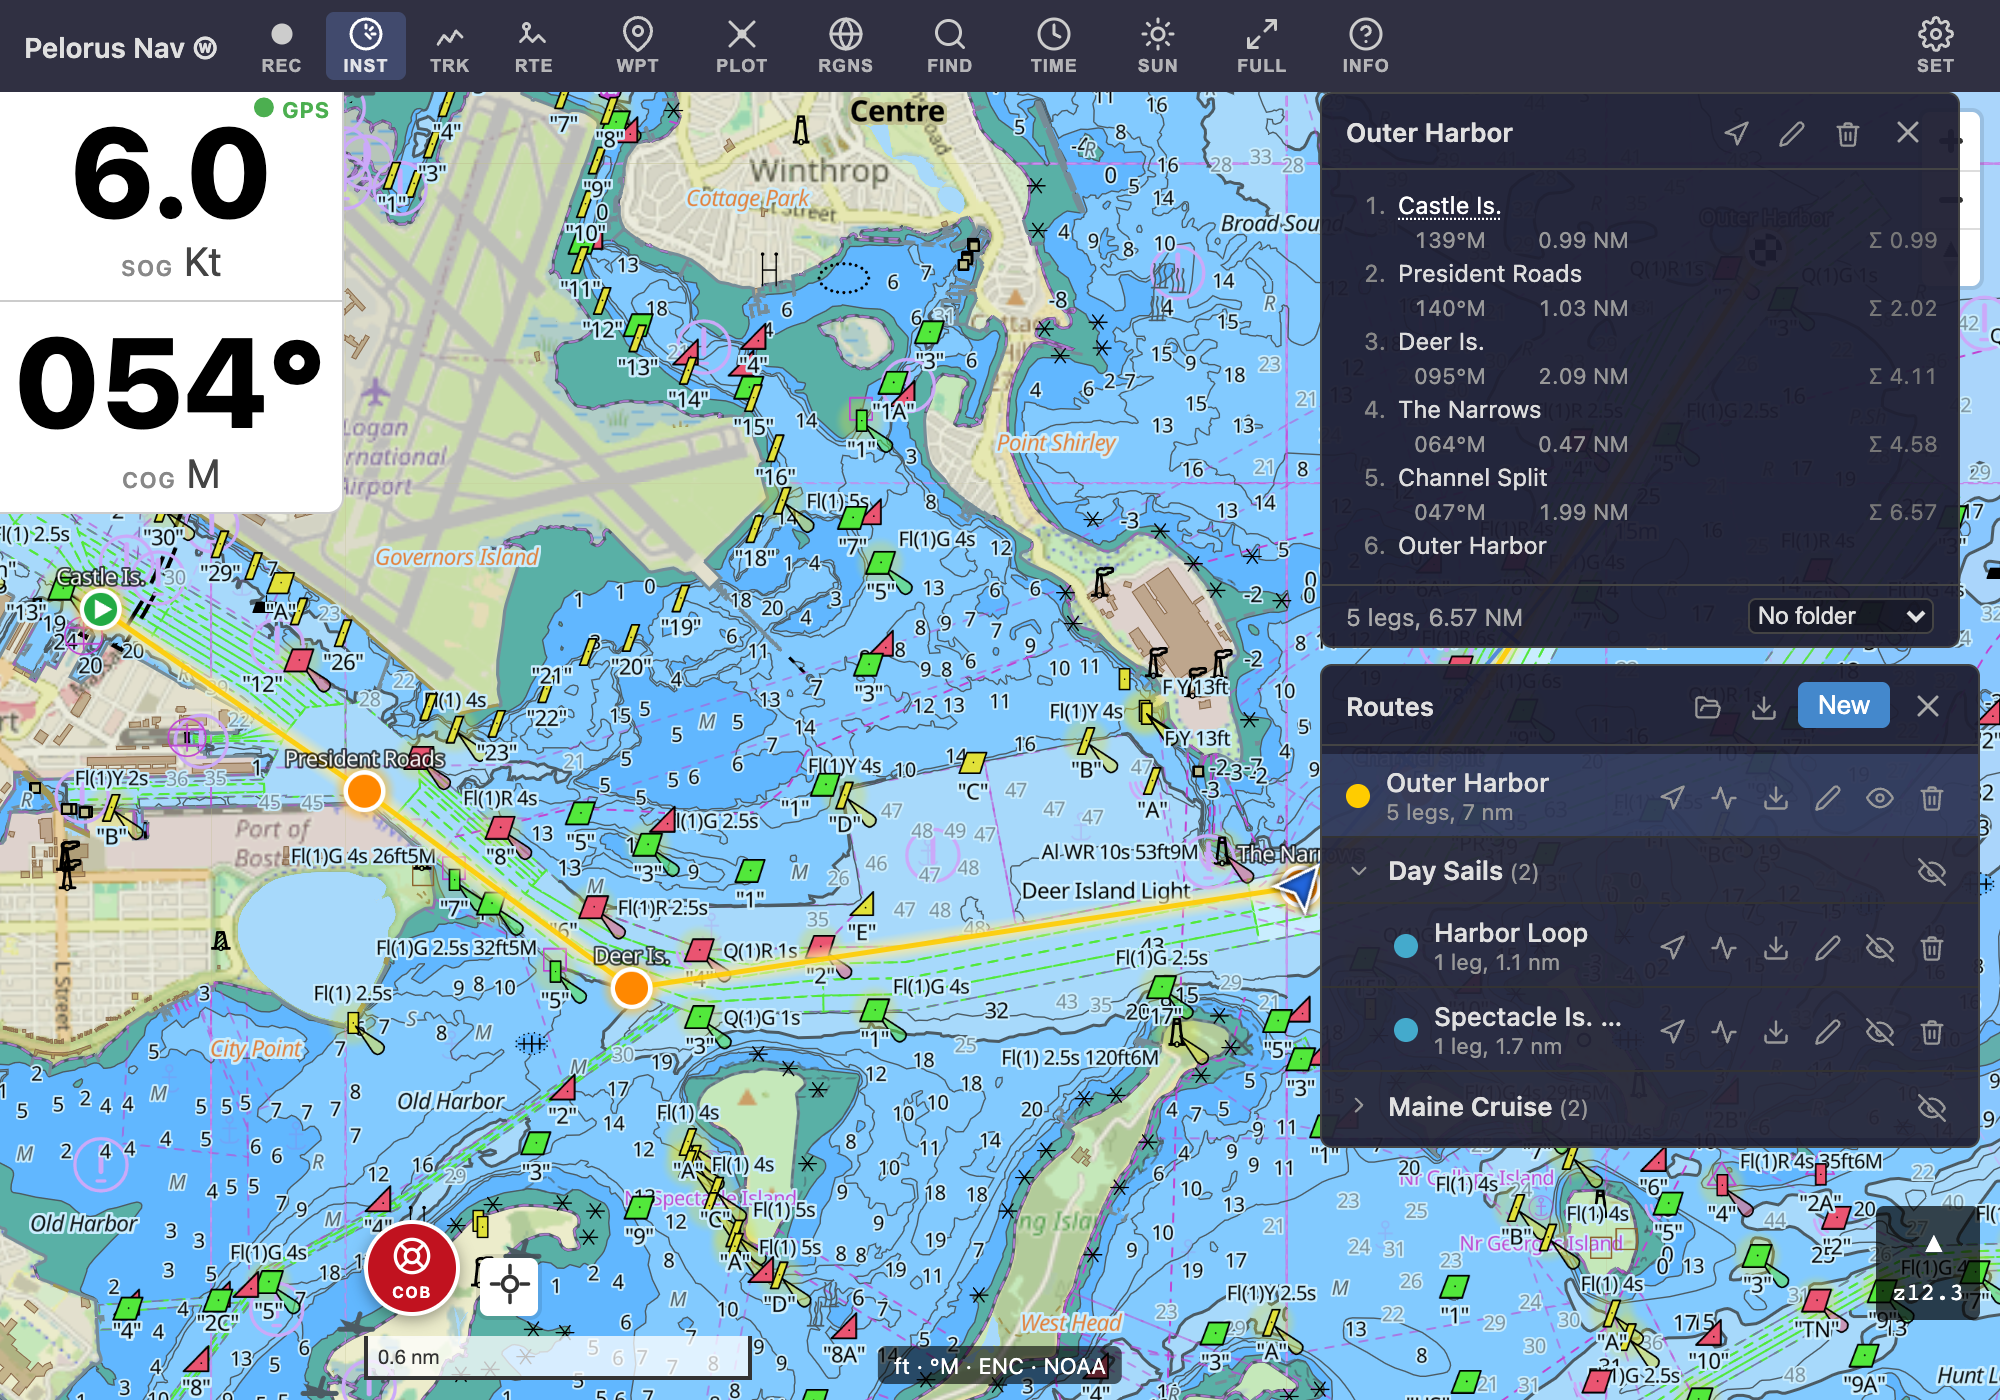
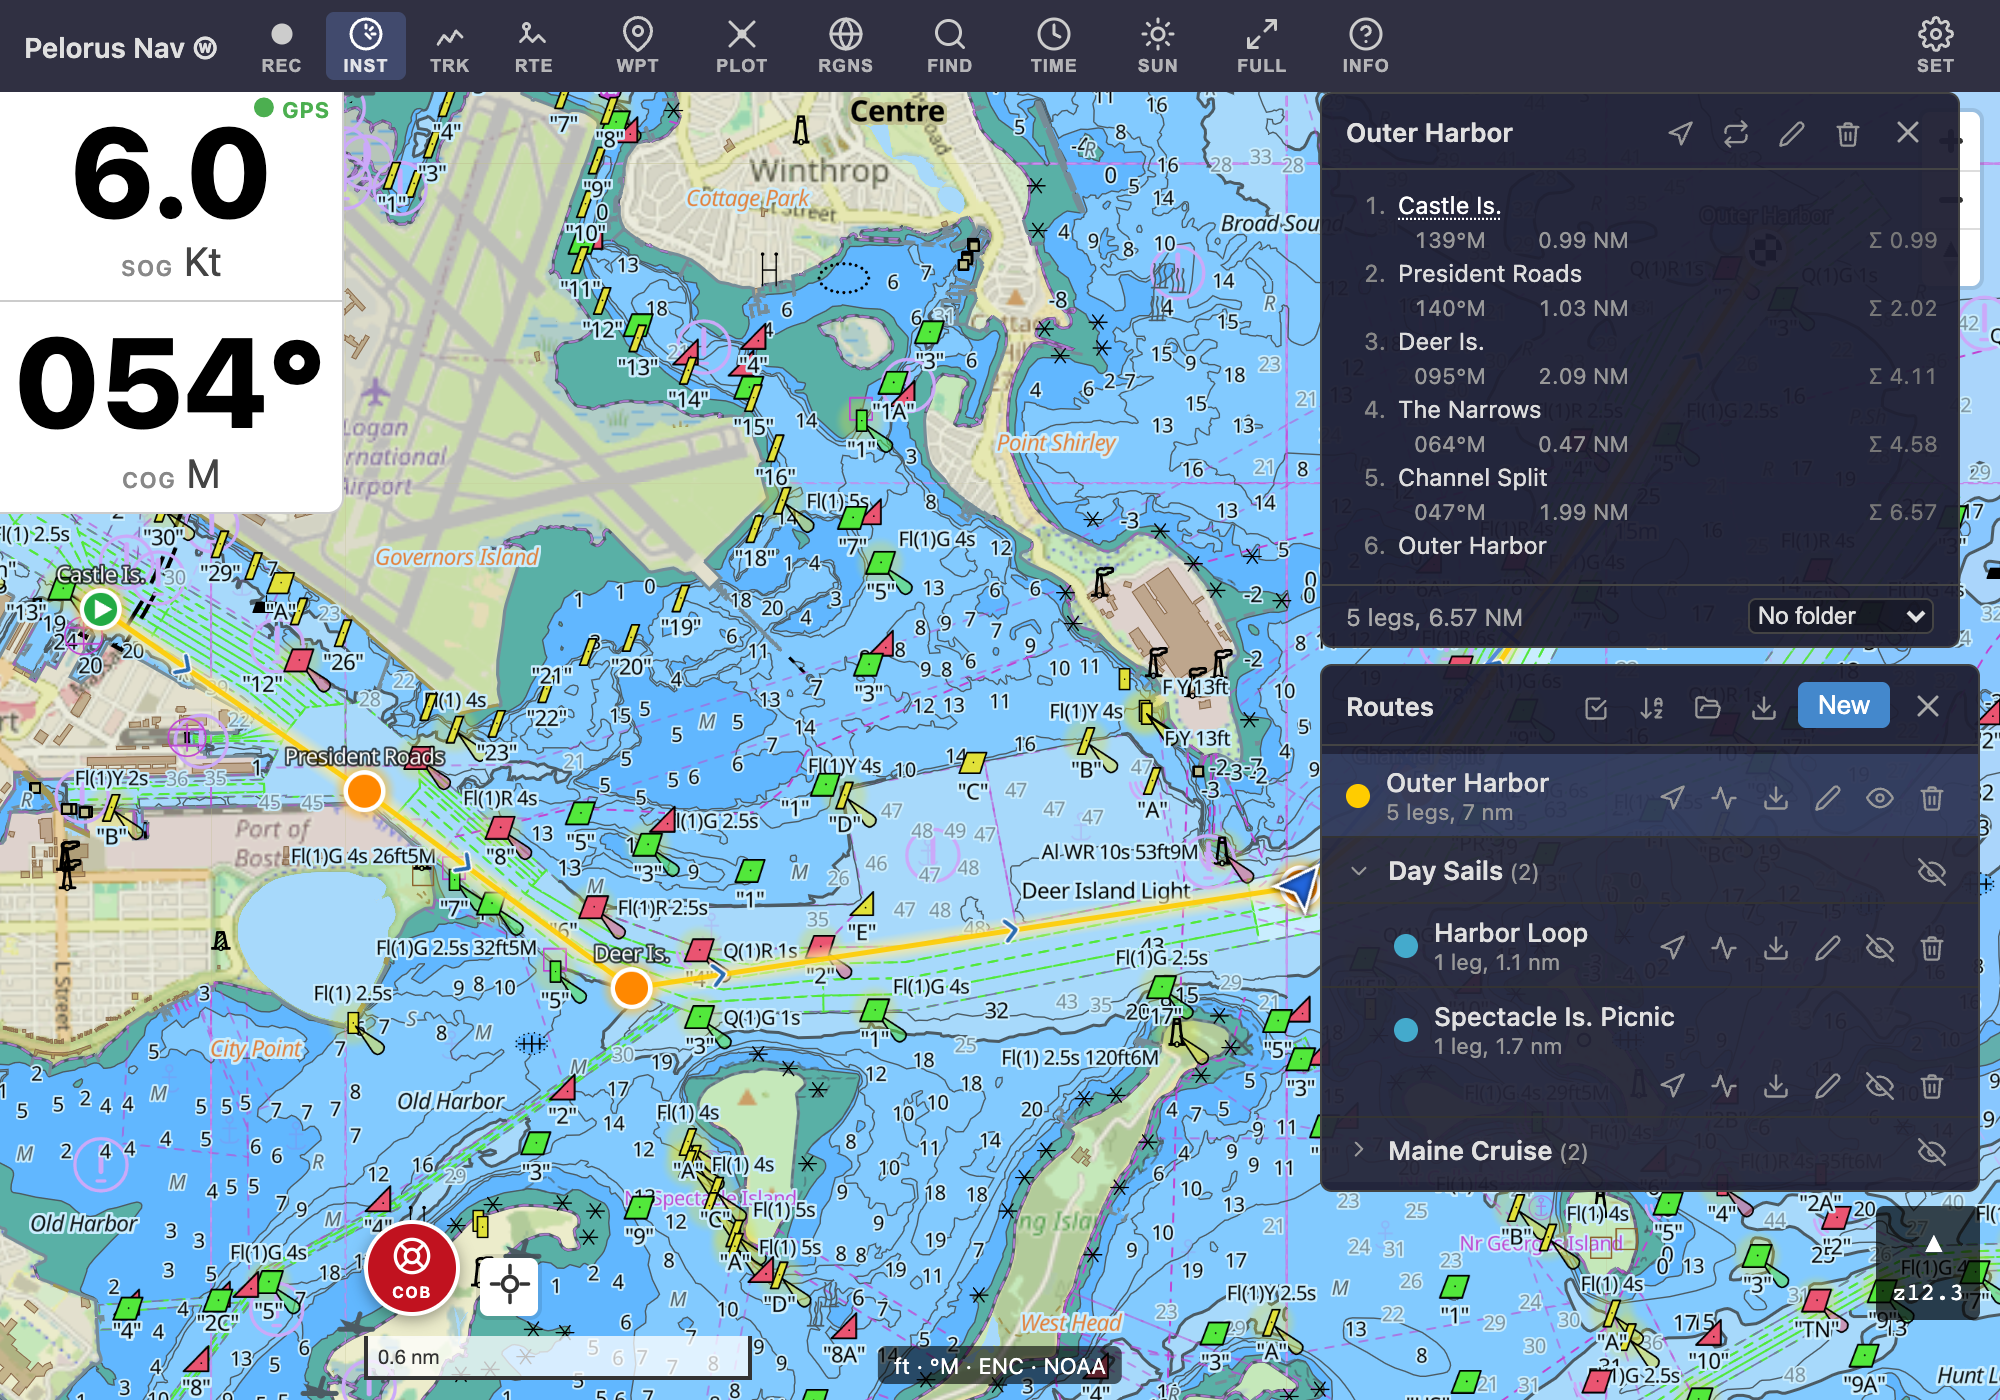
docs(guide): folders, bulk selection, and what import does now
The guide still described importing as a one-way "add everything" and
knew nothing about selection mode or about waypoints and tracks having
folders. It now covers:

- working on several at once — the Select button, long press, the bulk
  bar, Select All, and a folder header's own checkbox;
- what the import dialog says before it writes anything;
- re-importing a file you have imported before: what gets recognized,
  what the file wins, and what this device keeps (folder, colour,
  shown/hidden) — the thing that makes a shared file usable for keeping
  two devices in step;
- that another chartplotter's own details survive the round trip.

Tracks and the waypoint section point at the routes page for the shared
mechanics rather than repeating them.

Two new deterministic scenes: route-selection, and import-dialog, which
drives the real file picker with a fixture written at run time so the
shot stays reproducible without committing a GPX. Regenerated only the
screenshots whose UI actually changed (the manager panels gained a
header button) — the tide, wind, sun and chart scenes vary with live
data and were left alone.

diff --git a/tools/docs-shots.ts b/tools/docs-shots.ts
@@ -7,7 +7,8 @@
  * Run: bun run docs:shots [scene ...]   (no args = all scenes)
  * Output: docs-site/public/images/<name>.png (committed to git).
  */
-import { mkdirSync, readFileSync } from "node:fs";
+import { mkdirSync, readFileSync, writeFileSync } from "node:fs";
+import { tmpdir } from "node:os";
 import { type Browser, chromium, type Page } from "playwright";
 import { REPLAY_TRACK } from "../src/navigation/replay-track";
 import { iconShareIOS } from "../src/ui/icons";
@@ -174,6 +175,23 @@ function buildPlotSheet() {
   };
 }
 const SEED_PLOT = buildPlotSheet();
+
+/** Two routes and a waypoint, with a file name of its own — enough for the
+ *  import dialog to have something to say. Fed through the real picker. */
+const IMPORT_FIXTURE =
+  '<?xml version="1.0" encoding="UTF-8"?>\n' +
+  '<gpx version="1.1" creator="ActiveCaptain" xmlns="http://www.topografix.com/GPX/1/1">\n' +
+  "  <metadata><name>Maine Cruise</name></metadata>\n" +
+  '  <wpt lat="43.79" lon="-69.63"><name>Boothbay</name></wpt>\n' +
+  "  <rte><name>Casco Bay Passage</name>\n" +
+  '    <rtept lat="43.65" lon="-70.24"><name>Portland</name></rtept>\n' +
+  '    <rtept lat="43.79" lon="-69.63"><name>Boothbay</name></rtept>\n' +
+  "  </rte>\n" +
+  "  <rte><name>Muscongus Run</name>\n" +
+  '    <rtept lat="43.79" lon="-69.63"><name>Boothbay</name></rtept>\n' +
+  '    <rtept lat="43.92" lon="-69.36"><name>Port Clyde</name></rtept>\n' +
+  "  </rte>\n" +
+  "</gpx>\n";
 
 interface Scene {
   name: string;
@@ -448,6 +466,41 @@ const SCENES: Scene[] = [
     element: ".route-manager-panel",
     appIcons: true,
     actions: openRoutePanel,
+  },
+  {
+    // Selection mode: checkboxes on the rows and the bulk bar at the bottom.
+    name: "route-selection",
+    zoom: 12.3,
+    center: [-70.97, 42.345],
+    seedFolders: true,
+    actions: async (page) => {
+      await openRoutePanel(page);
+      await page.click("#route-select-btn");
+      await page.waitForSelector(".manager-selection-bar.open");
+      // Two ticked, so the count and the enabled actions both read true.
+      const boxes = page.locator(
+        ".route-manager-panel .manager-item:not(.manager-folder) .manager-select-box",
+      );
+      await boxes.nth(0).click();
+      await boxes.nth(1).click();
+      await page.waitForTimeout(400);
+    },
+  },
+  {
+    // The import confirmation, driven through the real file picker.
+    name: "import-dialog",
+    zoom: 12.3,
+    center: [-70.97, 42.345],
+    element: ".import-card",
+    actions: async (page) => {
+      const path = `${tmpdir()}/pelorus-docs-import.gpx`;
+      writeFileSync(path, IMPORT_FIXTURE);
+      await openRoutePanel(page);
+      const chooser = page.waitForEvent("filechooser");
+      await page.click("#route-import-btn");
+      await (await chooser).setFiles(path);
+      await page.waitForSelector(".import-card");
+    },
   },
   {
     name: "route-navigation",

diff --git a/docs-site/routes.md b/docs-site/routes.md
@@ -95,6 +95,28 @@ header shows or hides *every* route in it at once, so you can keep last
 summer's cruise legs filed away and invisible while today's routes stay
 on the chart. A route with no folder simply lists at the top.
 
+Waypoints and tracks work the same way, with their own folders and their
+own collapse state.
+
+### Working on several at once
+
+Filing routes one at a time is fine for a few and hopeless for fifty. The
+ticked-box button in the panel header — or a long press on any row — turns
+the list into checkboxes:
+
+![Selecting several routes at once](/images/route-selection.png)
+
+Tick what you want and the bar along the bottom acts on all of it: move to a
+folder, show, hide, or delete. **Select All** takes everything in the panel,
+including whatever is inside collapsed folders, and a folder header's own
+checkbox takes just that folder — which is the quick way to deal with an
+import you no longer want. **Done** (or the Escape key) leaves the mode; so
+does closing the panel.
+
+While you're selecting, each row's own buttons step aside, so a tap can only
+ever mean "select this one". The Waypoints and Tracks panels have the same
+button and the same bar.
+
 ### Export and import (GPX)
 
 The panel header's import/export buttons read and write standard GPX files,
@@ -125,11 +147,38 @@ Two reasons to use them:
 Importing needn't start in the app: open a `.gpx` file from Files, Mail, or a
 cloud drive and choose Pelorus Nav, and it loads straight in.
 
-A file carrying more than one route offers to put them in a folder, named
-after the file if it says what it is. Worth accepting for a big import — a
-download of somebody's cruising routes can be dozens at once, and a folder
-keeps them together and lets you clear them off the chart with one tap of its
-eye. Leave the name empty to skip, and the routes simply list on their own.
+#### What happens when you import
+
+Importing shows you what the file holds and what it means for what you already
+have, before writing anything:
+
+![The import dialog](/images/import-dialog.png)
+
+If the file brings several new items, it offers to put them in a folder, named
+after the file when the file says what it is. Worth accepting for a big
+import — a download of somebody's cruising routes can be dozens at once, and a
+folder keeps them together and lets you clear them off the chart with one tap
+of its eye. Empty the name to skip it and they simply list on their own.
+
+#### Re-importing the same file
+
+Importing a file you have imported before does **not** give you a second copy
+of everything. Pelorus recognizes what it has already seen — by the identifier
+the file carries where there is one, and by the route's name and shape where
+there isn't — and updates those items in place instead of adding them again.
+An unchanged file writes nothing at all, and says so: *"55 routes and 308
+waypoints already up to date."*
+
+That makes a shared file a workable way to keep two devices in step: export
+from one, import on the other, as often as you like. When an item has changed
+on the far side, the file's version wins for the name and the shape, while
+this device keeps how *you* filed it — its folder, its colour, and whether
+it's currently shown on the chart.
+
+A file from another chartplotter also keeps the things Pelorus itself doesn't
+use — OpenCPN's planned speed and arrival radii, the depth and water
+temperature a Garmin recorded at a mark — and writes them back out on export,
+so a file that goes home to the app it came from arrives intact.
 
 ## Following a route
 

diff --git a/docs-site/tracks.md b/docs-site/tracks.md
@@ -22,8 +22,16 @@ Click the color dot to change the track's color; double-click the name to
 rename it. The header buttons import GPX files and export or delete all
 tracks at once.
 
+A season of recordings gets long, so tracks can go in folders and be worked
+on in bulk exactly as [routes can](/routes#organizing-with-folders): a
+folder's eye shows or hides everything in it, and the ticked-box button in
+the header (or a long press on a row) lets you select several and move, show,
+hide, or delete them together.
+
 As with routes, tracks live only on the device — export now and then for
-backup, or to move a track to another device or app.
+backup, or to move a track to another device or app. Re-importing a file you
+have imported before updates what is already there rather than duplicating
+it, so the same file can be used to keep two devices in step.
 
 ## The Track Viewer
 

diff --git a/docs-site/getting-started.md b/docs-site/getting-started.md
@@ -116,6 +116,11 @@ live bearing and distance home from wherever you are — see
 [Following a route](/routes#following-a-route) for what the navigation
 instruments show.
 
+Each waypoint row also has an eye to take it off the chart without deleting
+it, and waypoints can be put in folders and selected in bulk the same way
+[routes can](/routes#organizing-with-folders) — worth knowing before you
+import a few hundred marks from another chartplotter.
+
 ## Next steps
 
 - [The Chart Display](/chart-display) — chart modes, layers, and detail
